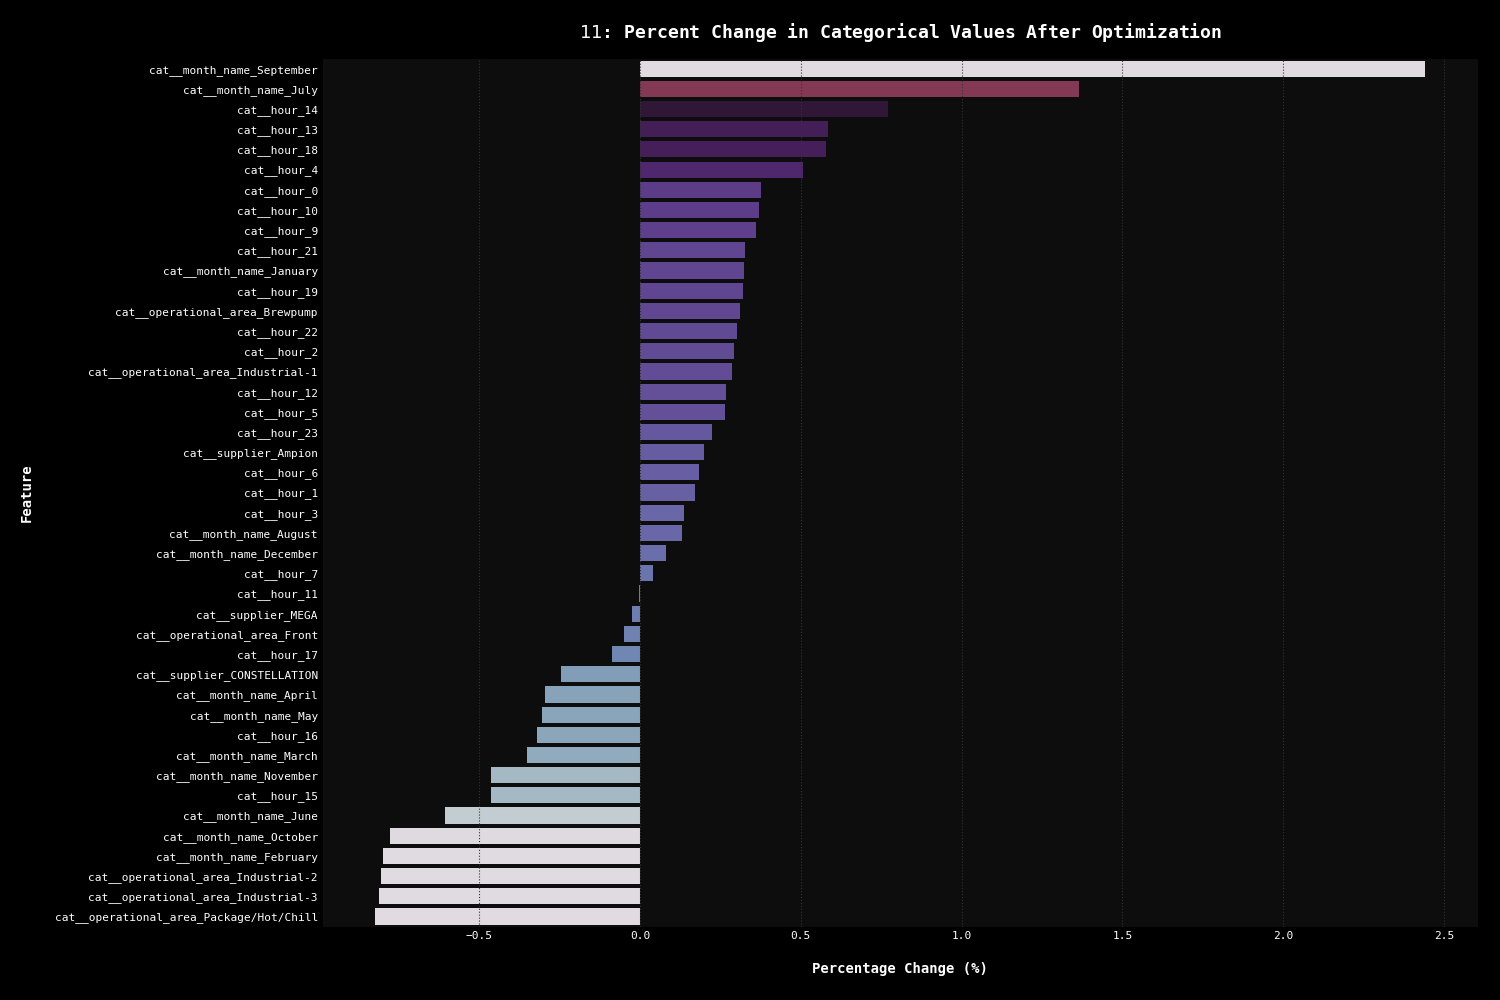
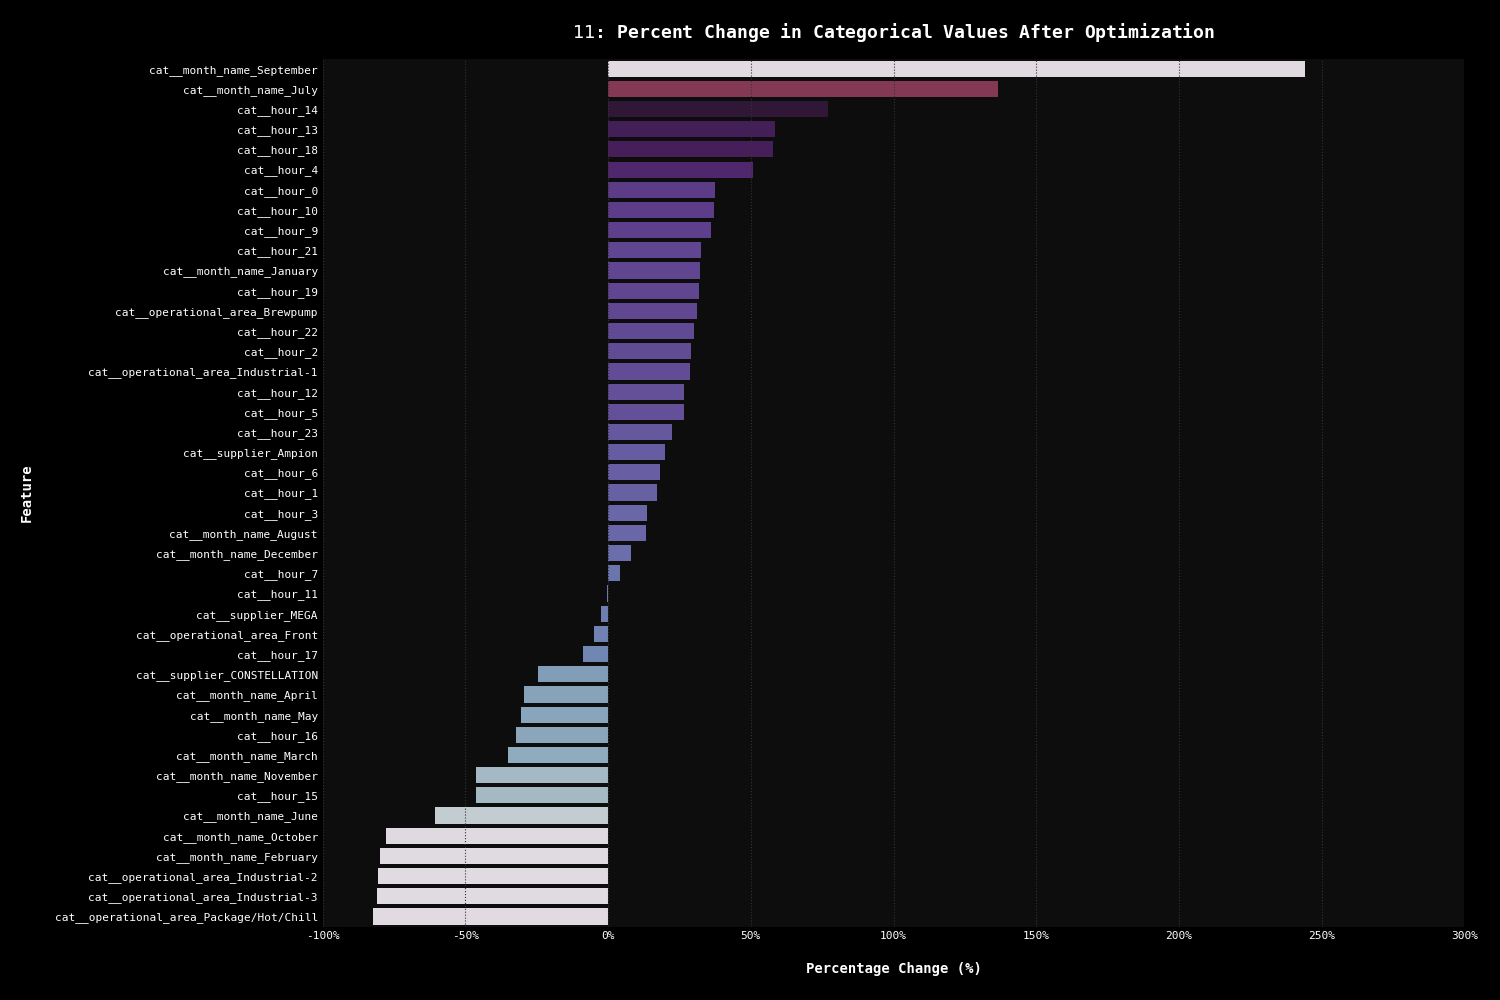
Proper percentage in 11

diff --git a/src/analysis/jp/jp11.py b/src/analysis/jp/jp11.py
@@ -28,20 +28,25 @@ def percent_changes(X    : np.ndarray       = lasso_outputs['X_train'],
         A bar chart saved as a PNG file and displayed on the screen, showing the percent change in categorical features after optimization.
     '''
 
-    # Convert the list of feature arrays into a DataFrame and calculate the means
+    # 1: Convert the list of feature arrays into a DataFrame and calculate the means
     optimized_means = pd.DataFrame(sets,        columns = fts).mean()
     original_means  = pd.DataFrame(X.toarray(), columns = fts).mean()
 
-    # Compute and round the percentage changes
+    # 2: Compute the percentage changes
     pct_changes = ((optimized_means - original_means) / original_means).sort_values(ascending = False)
     pct_changes = pct_changes[~pct_changes.index.str.startswith('num_')]
 
-    # Barplot visualization
-    sns.barplot(x       = pct_changes, 
-                y       = pct_changes.index, 
-                hue     = pct_changes, 
-                legend  = False,
-                palette = 'twilight')
+    # 3: Barplot visualization
+    bp = sns.barplot(x       = pct_changes, 
+                     y       = pct_changes.index, 
+                     hue     = pct_changes, 
+                     legend  = False,
+                     palette = 'twilight')
+    
+    # Set x-axis labels as formatted percentages
+    x_ticks = bp.get_xticks()
+    bp.set_xticks(x_ticks)
+    bp.set_xticklabels([f'{(x * 100):.0f}%' for x in x_ticks])
 
     plt.xlabel('Percentage Change (%)')
     plt.ylabel('Feature')
